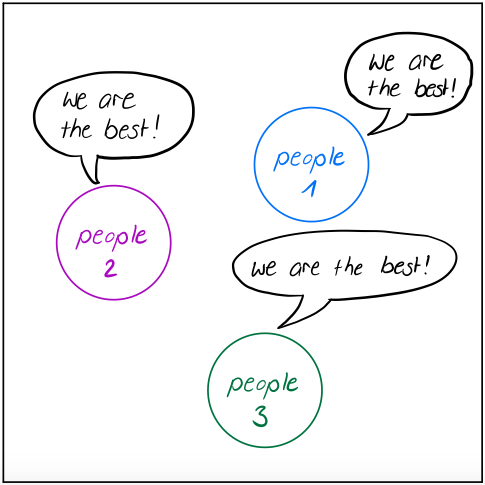
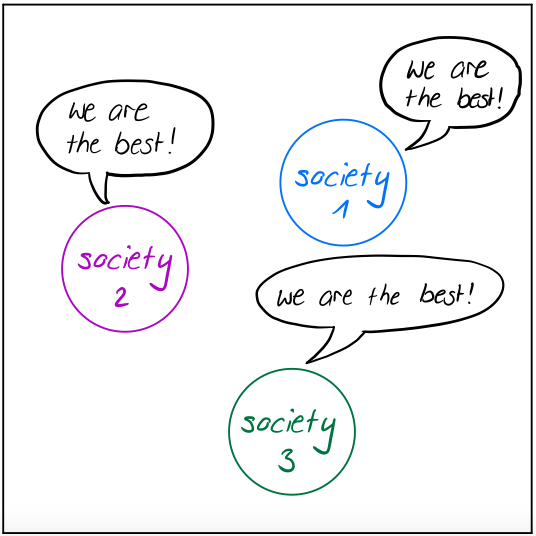
societies

diff --git a/content/ethnology/history.md b/content/ethnology/history.md
@@ -13,7 +13,7 @@ classes:
 - feature-depth
 - feature-figcaption
 ---
-You think, Ethnology is something new? Far wrong. Although it hasn't been institutionalised until the end of the 19th century and still is a small chair, the interest in other peoples existed long before and people always wrote about other cultures. How ethnology has developed, you can find out here. 
+You think, Ethnology is something new? Far wrong. Although it hasn't been institutionalised until the end of the 19th century and still is a small chair, the interest in other societies existed long before and people always wrote about other cultures. How ethnology has developed, you can find out here. 
 
 <!--more-->
 
@@ -23,7 +23,7 @@ The oldest resource about Ethnology is from Herodot, an ancient greek who lived 
 
 ![Ethnocentrism](/img/history/ethnocentrism.png)
 
-Not only the greeks, but the romans wrote about other cultures as well. Caesar was one of them. His book _de bello calligo_ is about the Germanic peoples. It's mainly about the political warfare between Romans and Germanic peoples, but includes ethnographic details about the Germanic peoples as well. We can conclude that ethnological work in the ancient world consisted mainly of travel reports, descriptions of other peoples, history of mankind and was written amongst others to justify the supposed superiority of their own culture.
+Not only the greeks, but the romans wrote about other cultures as well. Caesar was one of them. His book _de bello calligo_ is about the Germanic peoples. It's mainly about the political warfare between Romans and Germanic peoples, but includes ethnographic details about the Germanic peoples as well. We can conclude that ethnological work in the ancient world consisted mainly of travel reports, descriptions of other societies, history of mankind and was written amongst others to justify the supposed superiority of their own culture.
 
 ![View of cultures in the ancient world](/img/history/ancientworld.png)
 
@@ -33,7 +33,7 @@ In the 6th century came a dark time over Europe, the Middle Ages. We have no eur
 
 ### Renaissance and Enlightenment
 
-Since the Renaissance and the Enlightenment Europe is back in the game. And not only back, but the Europeans acted as if they were the game makers. It was the time of expeditions, and with it the expansion of the home country. They sold the discovered land for little money to immigrants. The immigrants exploited the land with plantations. And as if that wouldn't have been enough they exploited the indigenous people as well. The indigenous people who didn't die in wars or of diseases had to work for the "white men" until they died of exhaustion. Like that loads of indigenous people and their cultures have been wiped out. Beside the exploitation proselytisation was big as well. After all it's the mission of the "white men" to bring Christianity to everyone in this world, isn't it? But the missionaries were in fact the people knowing the indigenous peoples the best and their descriptions were more useful than the travel reports.
+Since the Renaissance and the Enlightenment Europe is back in the game. And not only back, but the Europeans acted as if they were the game makers. It was the time of expeditions, and with it the expansion of the home country. They sold the discovered land for little money to immigrants. The immigrants exploited the land with plantations. And as if that wouldn't have been enough they exploited the indigenous people as well. The indigenous people who didn't die in wars or of diseases had to work for the "white men" until they died of exhaustion. Like that loads of indigenous people and their cultures have been wiped out. Beside the exploitation proselytisation was big as well. After all it's the mission of the "white men" to bring Christianity to everyone in this world, isn't it? But the missionaries were in fact the people knowing the indigenous societies the best and their descriptions were more useful than the travel reports.
 
 On the other hand, there were scholars believing that the "civilised world" was inferior to the indigenous people. Jean-Jacques Rousseau for instance saw in the indigenes the "noble savages", the only ones not being spoilt by the progress of civilisation. Beside those dualisms (either "we are better than them" or "they are better than us") one ethnologist voted for every culture being equal valuable. Johann Gottfried Herder made a model in which he compared cultures with balls and said that every culture has it's center of happiness like a ball has its gravity center. That was the first form of cultural relativism.
 
@@ -42,7 +42,7 @@ On the other hand, there were scholars believing that the "civilised world" was 
 
 ### 19th century
 
-However, this cultural relativism didn't withstand the development in the 19th century. It is the century of colonisation and unilineal evolution. Charles Darwin published his theory that all species of life have descended over time from common ancestors. Although his theory of unilineal evolution was about all species, some ethnologists adapted it on people only and hence considered that different cultures aren't at a state of coexistence, but are consecutive. So they believed that different cultures are developing all the same, the only difference is that they are in different states of this progress. There are several different theories about it, but the most important is the one from Lewis Henry Morgan. His theory says that the mankind develops in three steps: From ferocity over barbarism to civilisation. In the ferocity people are hunter-gatherers, in barbarism they do have agriculture and civilisation is the most devloped one and is found obviously in Europe. This unilineal evolution was a good legitimation for the colonisation, as all the "white men" wanted was helping the inferior peoples getting to the highest level, the civilised world. Fortunately we now know that this construction is idiotic and we don't see other cultures as inferior anymore.
+However, this cultural relativism didn't withstand the development in the 19th century. It is the century of colonisation and unilineal evolution. Charles Darwin published his theory that all species of life have descended over time from common ancestors. Although his theory of unilineal evolution was about all species, some ethnologists adapted it on people only and hence considered that different cultures aren't at a state of coexistence, but are consecutive. So they believed that different cultures are developing all the same, the only difference is that they are in different states of this progress. There are several different theories about it, but the most important is the one from Lewis Henry Morgan. His theory says that the mankind develops in three steps: From ferocity over barbarism to civilisation. In the ferocity people are hunter-gatherers, in barbarism they do have agriculture and civilisation is the most devloped one and is found obviously in Europe. This unilineal evolution was a good legitimation for the colonisation, as all the "white men" wanted was helping the inferior societies getting to the highest level, the civilised world. Fortunately we now know that this construction is idiotic and we don't see other cultures as inferior anymore.
 
 ![Unilineal evolution](/img/history/evolutionism.png)
 

diff --git a/content/ethnology/katchingethnology.md b/content/ethnology/katchingethnology.md
@@ -19,9 +19,9 @@ So, what is Ethnology? With this blog, I'd like to bring Ethnology closer to the
 
 <!--more-->
 
-Ethnology, Social Anthropology, Social and Cultural Anthropology, ... there are so many different names for the same subject. The word "Ethnology" is a composition of the greek words _ethnos_, which means _peoples_, and _logos_, which stands for any scientific discipline. Ethnology is therefore the doctrine of peoples.
+Ethnology, Social Anthropology, Social and Cultural Anthropology, ... there are so many different names for the same subject. The word "Ethnology" is a composition of the greek words _ethnos_, which means _peoples_, and _logos_, which stands for any scientific discipline. Ethnology is therefore the doctrine of societies.
 
-So, Ethnology is about peoples. Peoples all over the world. It's about how other people live their lifes. About what is important for them, what their beliefs and their practices are. And reciprocally, while studying other people, we discover a lot of our habits. We understand why we are doing things the way we do them. That our lifestyle isn't the norm everywhere just because it is the norm in our culture. Ethnologists want to discover everything that's foreign, compare it to the known and convert it from foreign to a normal alternative way of life.
+So, Ethnology is about societies. Societies all over the world. It's about how other people live their lifes. About what is important for them, what their beliefs and their practices are. And reciprocally, while studying other people, we discover a lot of our habits. We understand why we are doing things the way we do them. That our lifestyle isn't the norm everywhere just because it is the norm in our culture. Ethnologists want to discover everything that's foreign, compare it to the known and convert it from foreign to a normal alternative way of life.
 
 Ethnology isn't about hard skills. As a student you don't have to learn things by heart like medicine students learn all the bones of the human body. It is about soft skills. We learn empathy. We learn changing our point of view. We learn seeing things from someone else's perspective, called the emic perspective. We learn listening to people, although we don't have the same opinion as they have. We learn accepting that there are other ways and thus questioning our ways so that we can find the most suitable way for ourselves. We learn not to generalise, but to recognise the similarities and the differences. And we learn to mediate between cultures. Or in the words of Streck (1997):
 
@@ -31,7 +31,7 @@ In our globalised world soft skills gain in importance. I think it is inevitable
 
 ![Building bridges](/img/katching-ethnology/perspectives.png)
 
-### Bibliography
+### Resources
 Streck, B.: Fröhliche Wissenschaft Ethnologie – eine Führung. Edition Trickster im Peter-Hammer-Verlag, Wuppertal 1997.
 
 

diff --git a/content/ethnology/subdisciplines.md b/content/ethnology/subdisciplines.md
@@ -24,7 +24,7 @@ Before we go further into the subdisciplines, I'd like to go a step backwards an
 - tones: Linguistic anthropology
 - thrones: Social and cultural anthropology
 
-Let's have a closer look to Social and cultural anthropology and accordingly to Ethnology. **Ethnology** is the study of the characteristics of different peoples. The focus is primarily on culture. This subfield of Anthropology can be split in various subdisciplines. The most important are economy, political structure, social structure, religion and gender. But there are also others like medicine, origins, music, globalisation and so on.
+Let's have a closer look to Social and cultural anthropology and accordingly to Ethnology. **Ethnology** is the study of the characteristics of different people. The focus is primarily on culture. This subfield of Anthropology can be split in various subdisciplines. The most important are economy, political structure, social structure, religion and gender. But there are also others like medicine, origins, music, globalisation and so on.
 
 In the next few blog posts I'd like to give you a little insight of the five main subdisciplines. I hope you're looking forward to it as I do!
 

diff --git a/content/ethnology/theories.md b/content/ethnology/theories.md
@@ -3,8 +3,8 @@ title: "Ethnological theories and their origins"
 date: "2020-04-20"
 url: "/theories"
 draft: true
-description: "Most important theories and there origins"
-tldr: "Most important theories and there origins"
+description: "Most important theories and their origins"
+tldr: "Most important theories and their origins"
 image: "/img/theories/aurora.jpg"
 thumbnail: "/img/theories/aurora.jpg"
 categories:
@@ -77,6 +77,6 @@ Here is an quick overview of all the theories I've mentioned and explained above
 
 You ask why there are only white anthropologists? I asked it myself as well. And I suppose it's because white men prefer accrediting white mens work. Or they think it's more important to talk about them. Yeah, as if we have left unilineal evolution completely behind us. But with talking about that and becoming aware of this drawback we can make an effort to get over it and to cultural relativism.
 
-### Bibliography
+### Resources
 
 Boas, F.: Anthropology and Modern Life. W. W. Norton and Company, New York 1928.
